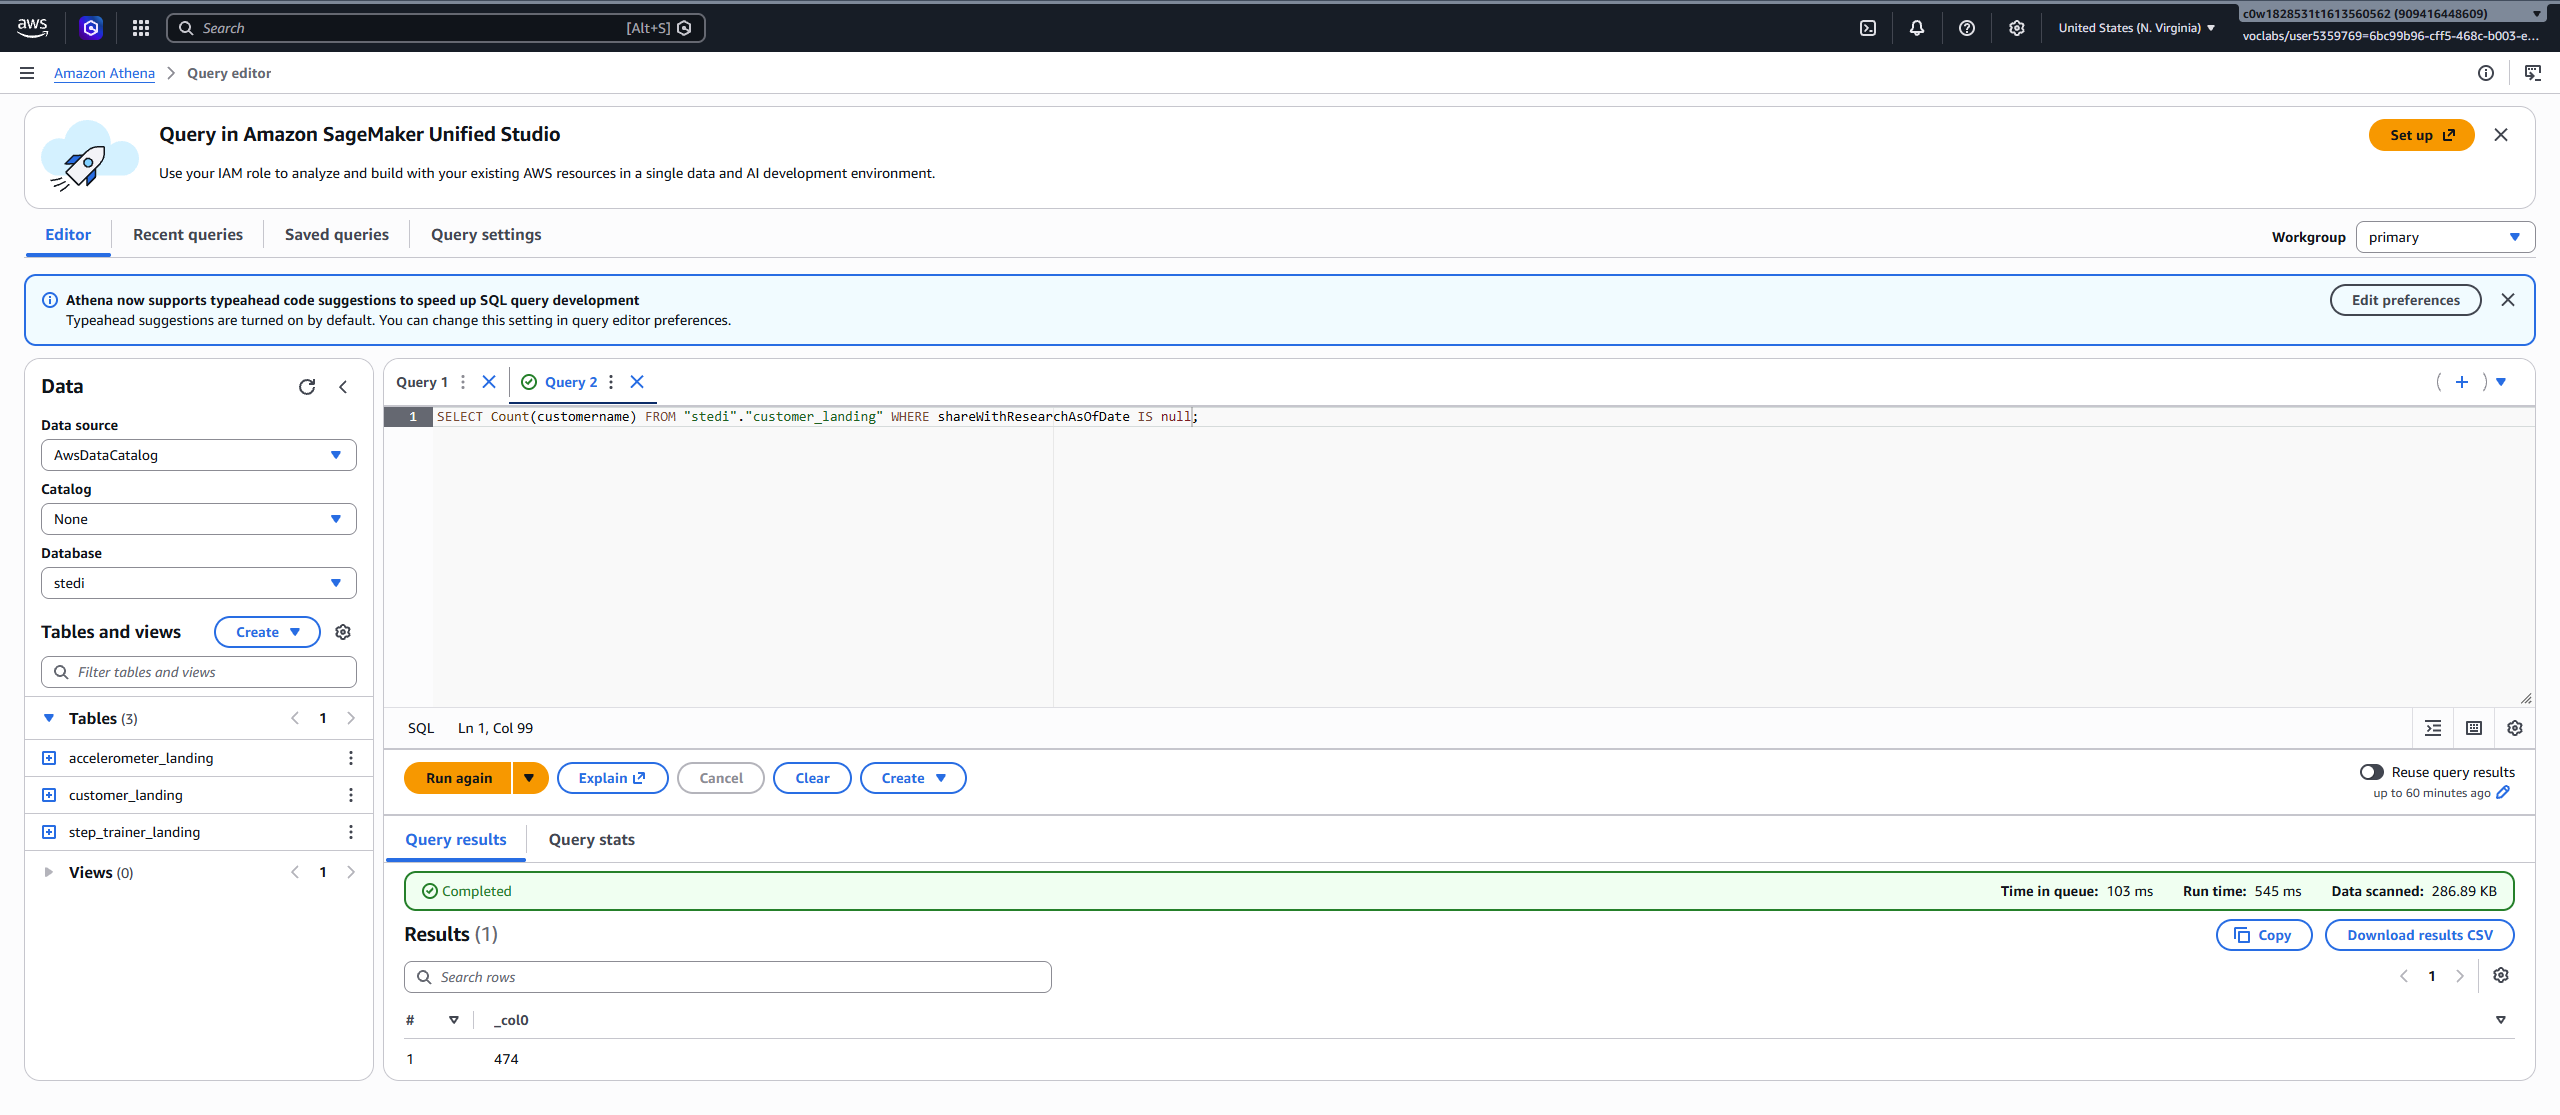
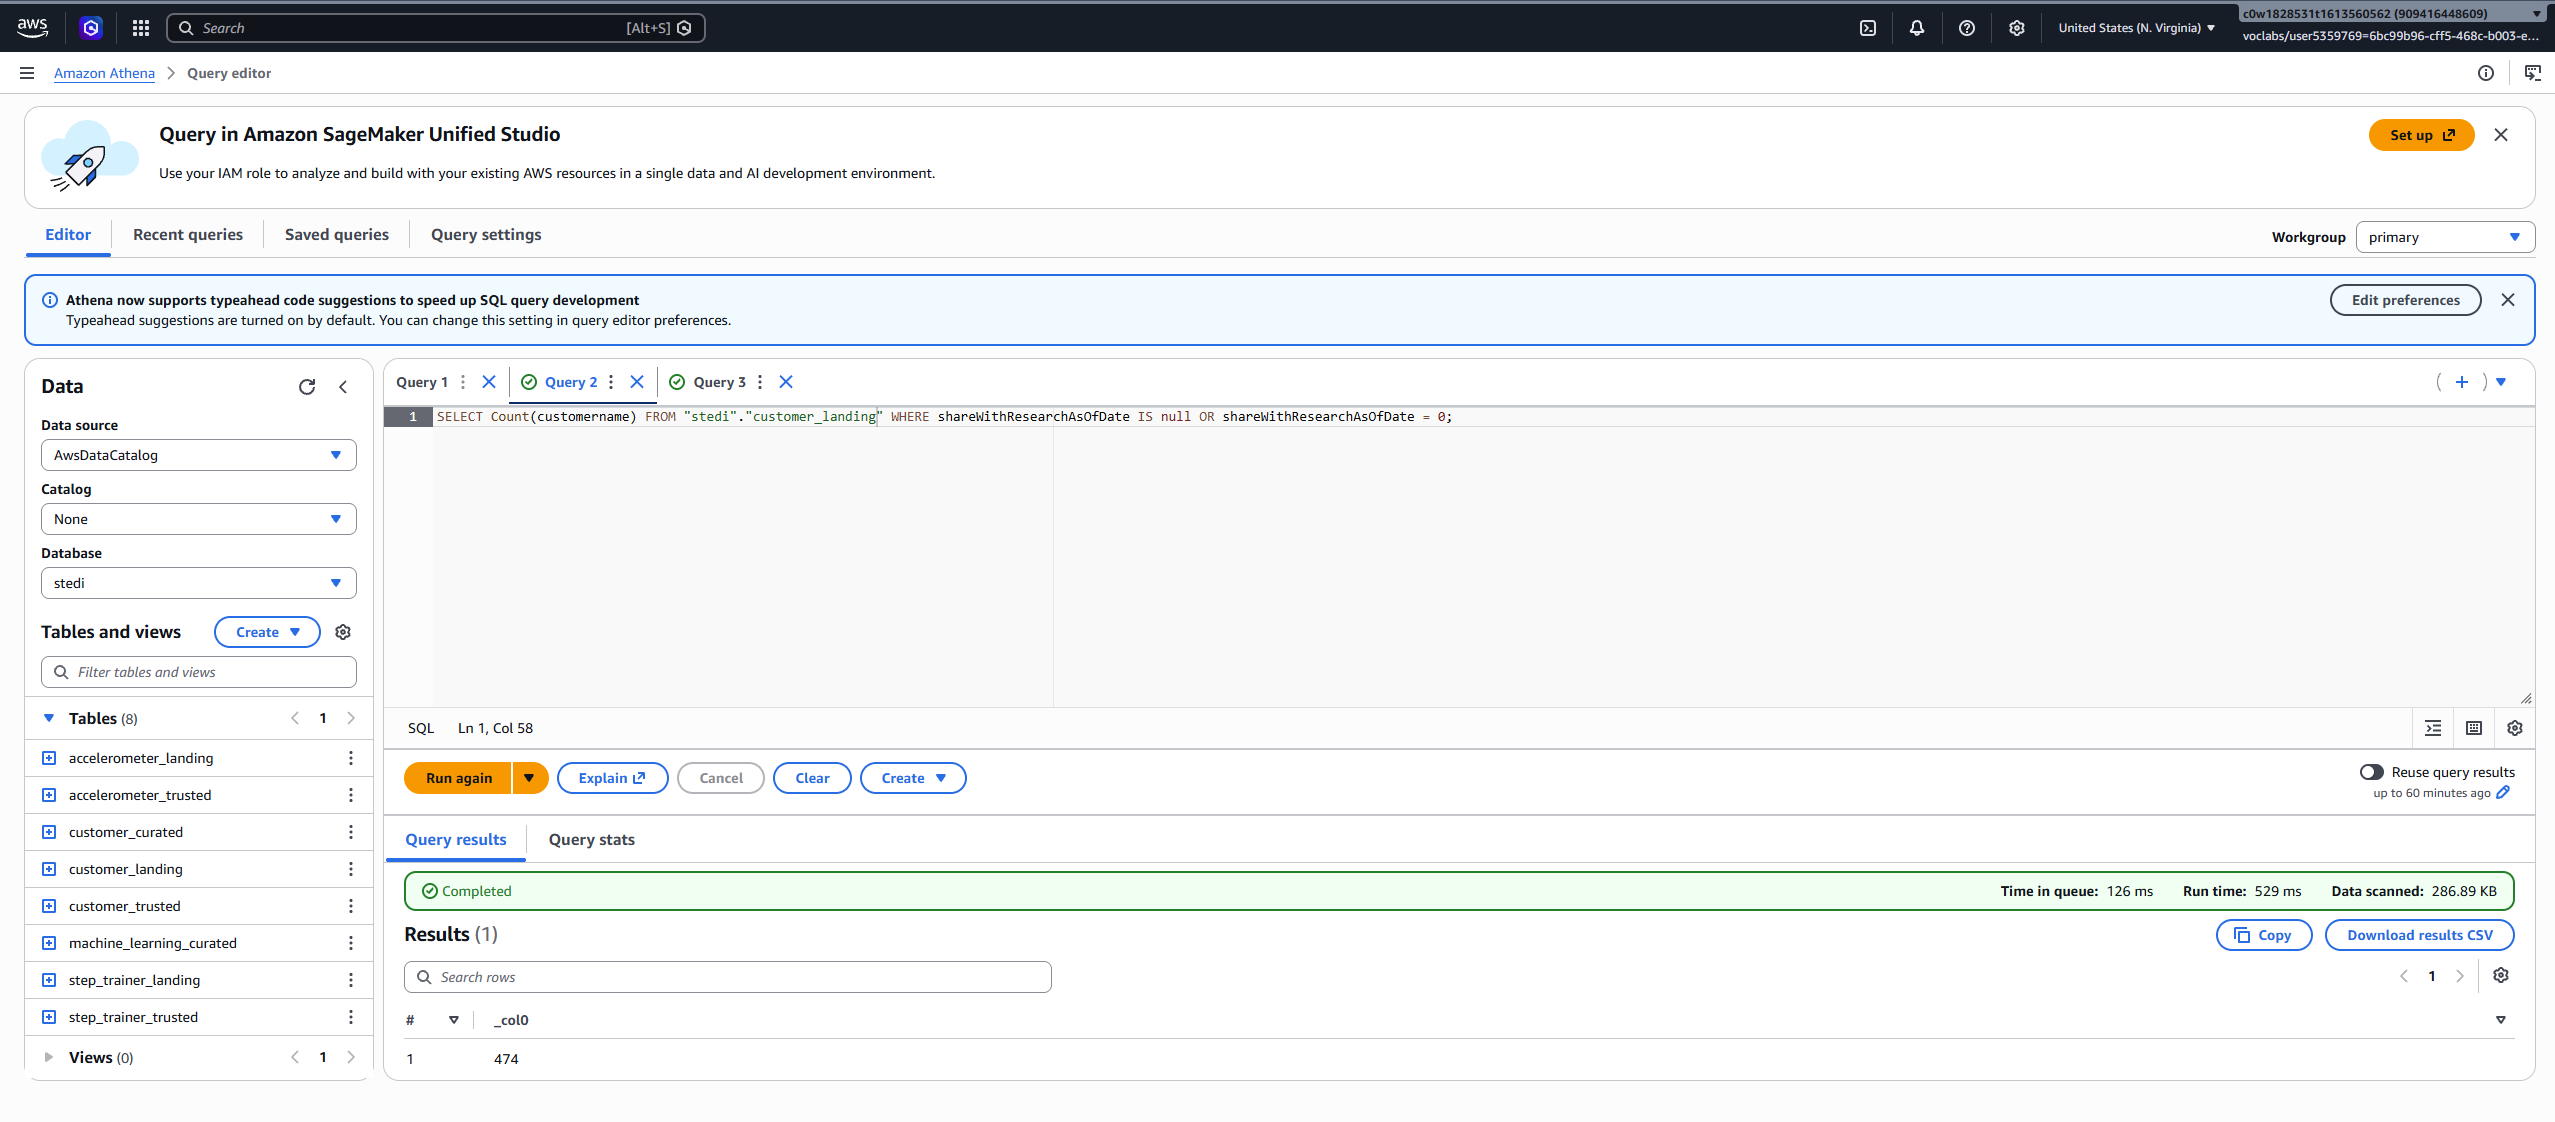
finished

diff --git a/glue_scripts/customer_trusted_to_curated.py b/glue_scripts/customer_trusted_to_curated.py
@@ -1,0 +1,38 @@
+import sys
+from awsglue.transforms import *
+from awsglue.utils import getResolvedOptions
+from pyspark.context import SparkContext
+from awsglue.context import GlueContext
+from awsglue.job import Job
+from awsglue import DynamicFrame
+
+def sparkSqlQuery(glueContext, query, mapping, transformation_ctx) -> DynamicFrame:
+    for alias, frame in mapping.items():
+        frame.toDF().createOrReplaceTempView(alias)
+    result = spark.sql(query)
+    return DynamicFrame.fromDF(result, glueContext, transformation_ctx)
+args = getResolvedOptions(sys.argv, ['JOB_NAME'])
+sc = SparkContext()
+glueContext = GlueContext(sc)
+spark = glueContext.spark_session
+job = Job(glueContext)
+job.init(args['JOB_NAME'], args)
+
+# Script generated for node Accelerometer Trusted
+AccelerometerTrusted_node1789191748771 = glueContext.create_dynamic_frame.from_catalog(database="stedi", table_name="accelerometer_trusted", transformation_ctx="AccelerometerTrusted_node1789191748771")
+
+# Script generated for node Customer Trusted
+CustomerTrusted_node1789191777920 = glueContext.create_dynamic_frame.from_catalog(database="stedi", table_name="customer_trusted", transformation_ctx="CustomerTrusted_node1789191777920")
+
+# Script generated for node Curate Customers
+SqlQuery0 = '''
+select distinct serialnumber, registrationdate, lastupdatedate, sharewithresearchasofdate, sharewithpublicasofdate, sharewithfriendsasofdate 
+from customer_trusted INNER JOIN accelerometer_trusted ON email = user
+
+'''
+CurateCustomers_node1789191820833 = sparkSqlQuery(glueContext, query = SqlQuery0, mapping = {"accelerometer_trusted":AccelerometerTrusted_node1789191748771, "customer_trusted":CustomerTrusted_node1789191777920}, transformation_ctx = "CurateCustomers_node1789191820833")
+
+# Script generated for node AWS Glue Data Catalog
+AWSGlueDataCatalog_node1789192090104 = glueContext.write_dynamic_frame.from_catalog(frame=CurateCustomers_node1789191820833, database="stedi", table_name="customer_curated", additional_options={"enableUpdateCatalog": True, "updateBehavior": "UPDATE_IN_DATABASE"}, transformation_ctx="AWSGlueDataCatalog_node1789192090104")
+
+job.commit()

diff --git a/glue_scripts/step_trainer_trusted.py b/glue_scripts/step_trainer_trusted.py
@@ -1,0 +1,37 @@
+import sys
+from awsglue.transforms import *
+from awsglue.utils import getResolvedOptions
+from pyspark.context import SparkContext
+from awsglue.context import GlueContext
+from awsglue.job import Job
+from awsglue import DynamicFrame
+
+def sparkSqlQuery(glueContext, query, mapping, transformation_ctx) -> DynamicFrame:
+    for alias, frame in mapping.items():
+        frame.toDF().createOrReplaceTempView(alias)
+    result = spark.sql(query)
+    return DynamicFrame.fromDF(result, glueContext, transformation_ctx)
+args = getResolvedOptions(sys.argv, ['JOB_NAME'])
+sc = SparkContext()
+glueContext = GlueContext(sc)
+spark = glueContext.spark_session
+job = Job(glueContext)
+job.init(args['JOB_NAME'], args)
+
+# Script generated for node Step Trainer Landing
+StepTrainerLanding_node1789193707969 = glueContext.create_dynamic_frame.from_catalog(database="stedi", table_name="step_trainer_landing", transformation_ctx="StepTrainerLanding_node1789193707969")
+
+# Script generated for node Customer Trusted
+CustomerTrusted_node1789193706162 = glueContext.create_dynamic_frame.from_catalog(database="stedi", table_name="customer_trusted", transformation_ctx="CustomerTrusted_node1789193706162")
+
+# Script generated for node SQL Query
+SqlQuery0 = '''
+select distinct sensorReadingTIme, step_trainer_landing.serialNumber, distanceFromObject from step_trainer_landing
+INNER JOIN customer_trusted ON step_trainer_landing.serialnumber = customer_trusted.serialnumber
+'''
+SQLQuery_node1789193716742 = sparkSqlQuery(glueContext, query = SqlQuery0, mapping = {"step_trainer_landing":StepTrainerLanding_node1789193707969, "customer_trusted":CustomerTrusted_node1789193706162}, transformation_ctx = "SQLQuery_node1789193716742")
+
+# Script generated for node Step Trainer Trusted
+StepTrainerTrusted_node1789193723506 = glueContext.write_dynamic_frame.from_catalog(frame=SQLQuery_node1789193716742, database="stedi", table_name="step_trainer_trusted", additional_options={"enableUpdateCatalog": True, "updateBehavior": "UPDATE_IN_DATABASE"}, transformation_ctx="StepTrainerTrusted_node1789193723506")
+
+job.commit()

diff --git a/glue_scripts/accelerometer_landing_to_trusted.py b/glue_scripts/accelerometer_landing_to_trusted.py
@@ -1,0 +1,39 @@
+import sys
+from awsglue.transforms import *
+from awsglue.utils import getResolvedOptions
+from pyspark.context import SparkContext
+from awsglue.context import GlueContext
+from awsglue.job import Job
+from awsglue import DynamicFrame
+
+def sparkSqlQuery(glueContext, query, mapping, transformation_ctx) -> DynamicFrame:
+    for alias, frame in mapping.items():
+        frame.toDF().createOrReplaceTempView(alias)
+    result = spark.sql(query)
+    return DynamicFrame.fromDF(result, glueContext, transformation_ctx)
+args = getResolvedOptions(sys.argv, ['JOB_NAME'])
+sc = SparkContext()
+glueContext = GlueContext(sc)
+spark = glueContext.spark_session
+job = Job(glueContext)
+job.init(args['JOB_NAME'], args)
+
+# Script generated for node Customer Trusted
+CustomerTrusted_node1789189474050 = glueContext.create_dynamic_frame.from_catalog(database="stedi", table_name="customer_trusted", transformation_ctx="CustomerTrusted_node1789189474050")
+
+# Script generated for node Accelerometer landing
+Accelerometerlanding_node1789189449384 = glueContext.create_dynamic_frame.from_catalog(database="stedi", table_name="accelerometer_landing", transformation_ctx="Accelerometerlanding_node1789189449384")
+
+# Script generated for node SQL Query
+SqlQuery0 = '''
+select `user`, `timestamp`,`x`,`y`,`z` from accelerometer_landing 
+LEFT JOIN customer_trusted 
+ON email = user 
+WHERE accelerometer_landing.`timestamp` >= customer_trusted.shareWithResearchAsOfDate
+'''
+SQLQuery_node1789190066289 = sparkSqlQuery(glueContext, query = SqlQuery0, mapping = {"customer_trusted":CustomerTrusted_node1789189474050, "accelerometer_landing":Accelerometerlanding_node1789189449384}, transformation_ctx = "SQLQuery_node1789190066289")
+
+# Script generated for node AWS Glue Data Catalog
+AWSGlueDataCatalog_node1789190372421 = glueContext.write_dynamic_frame.from_catalog(frame=SQLQuery_node1789190066289, database="stedi", table_name="accelerometer_trusted", additional_options={"enableUpdateCatalog": True, "updateBehavior": "UPDATE_IN_DATABASE"}, transformation_ctx="AWSGlueDataCatalog_node1789190372421")
+
+job.commit()

diff --git a/glue_scripts/machine_learning_curated.py b/glue_scripts/machine_learning_curated.py
@@ -1,0 +1,38 @@
+import sys
+from awsglue.transforms import *
+from awsglue.utils import getResolvedOptions
+from pyspark.context import SparkContext
+from awsglue.context import GlueContext
+from awsglue.job import Job
+from awsglue import DynamicFrame
+
+def sparkSqlQuery(glueContext, query, mapping, transformation_ctx) -> DynamicFrame:
+    for alias, frame in mapping.items():
+        frame.toDF().createOrReplaceTempView(alias)
+    result = spark.sql(query)
+    return DynamicFrame.fromDF(result, glueContext, transformation_ctx)
+args = getResolvedOptions(sys.argv, ['JOB_NAME'])
+sc = SparkContext()
+glueContext = GlueContext(sc)
+spark = glueContext.spark_session
+job = Job(glueContext)
+job.init(args['JOB_NAME'], args)
+
+# Script generated for node Step Trainer Trusted
+StepTrainerTrusted_node1789193707969 = glueContext.create_dynamic_frame.from_catalog(database="stedi", table_name="step_trainer_trusted", transformation_ctx="StepTrainerTrusted_node1789193707969")
+
+# Script generated for node accelerometer trusted
+accelerometertrusted_node1789193706162 = glueContext.create_dynamic_frame.from_catalog(database="stedi", table_name="accelerometer_trusted", transformation_ctx="accelerometertrusted_node1789193706162")
+
+# Script generated for node SQL Query
+SqlQuery0 = '''
+SELECT * from step_trainer_trusted
+JOIN accelerometer_trusted
+ON accelerometer_trusted.timestamp = sensorreadingtime
+'''
+SQLQuery_node1789193716742 = sparkSqlQuery(glueContext, query = SqlQuery0, mapping = {"step_trainer_trusted":StepTrainerTrusted_node1789193707969, "accelerometer_trusted":accelerometertrusted_node1789193706162}, transformation_ctx = "SQLQuery_node1789193716742")
+
+# Script generated for node Step Trainer Trusted
+StepTrainerTrusted_node1789193723506 = glueContext.write_dynamic_frame.from_catalog(frame=SQLQuery_node1789193716742, database="stedi", table_name="machine_learning_curated", additional_options={"enableUpdateCatalog": True, "updateBehavior": "UPDATE_IN_DATABASE"}, transformation_ctx="StepTrainerTrusted_node1789193723506")
+
+job.commit()

diff --git a/glue_scripts/customer_landing_to_trusted.py b/glue_scripts/customer_landing_to_trusted.py
@@ -1,0 +1,34 @@
+import sys
+from awsglue.transforms import *
+from awsglue.utils import getResolvedOptions
+from pyspark.context import SparkContext
+from awsglue.context import GlueContext
+from awsglue.job import Job
+from awsglue import DynamicFrame
+
+def sparkSqlQuery(glueContext, query, mapping, transformation_ctx) -> DynamicFrame:
+    for alias, frame in mapping.items():
+        frame.toDF().createOrReplaceTempView(alias)
+    result = spark.sql(query)
+    return DynamicFrame.fromDF(result, glueContext, transformation_ctx)
+args = getResolvedOptions(sys.argv, ['JOB_NAME'])
+sc = SparkContext()
+glueContext = GlueContext(sc)
+spark = glueContext.spark_session
+job = Job(glueContext)
+job.init(args['JOB_NAME'], args)
+
+# Script generated for node Customer Landing
+CustomerLanding_node1789187813607 = glueContext.create_dynamic_frame.from_catalog(database="stedi", table_name="customer_landing", transformation_ctx="CustomerLanding_node1789187813607")
+
+# Script generated for node SharedWithResearch
+SqlQuery0 = '''
+select * from customer_landing
+WHERE sharewithresearchasofdate IS NOT null AND sharewithresearchasofdate != 0
+'''
+SharedWithResearch_node1789187912398 = sparkSqlQuery(glueContext, query = SqlQuery0, mapping = {"customer_landing":CustomerLanding_node1789187813607}, transformation_ctx = "SharedWithResearch_node1789187912398")
+
+# Script generated for node AWS Glue Data Catalog
+AWSGlueDataCatalog_node1789188025440 = glueContext.write_dynamic_frame.from_catalog(frame=SharedWithResearch_node1789187912398, database="stedi", table_name="customer_trusted", additional_options={"enableUpdateCatalog": True, "updateBehavior": "UPDATE_IN_DATABASE"}, transformation_ctx="AWSGlueDataCatalog_node1789188025440")
+
+job.commit()
